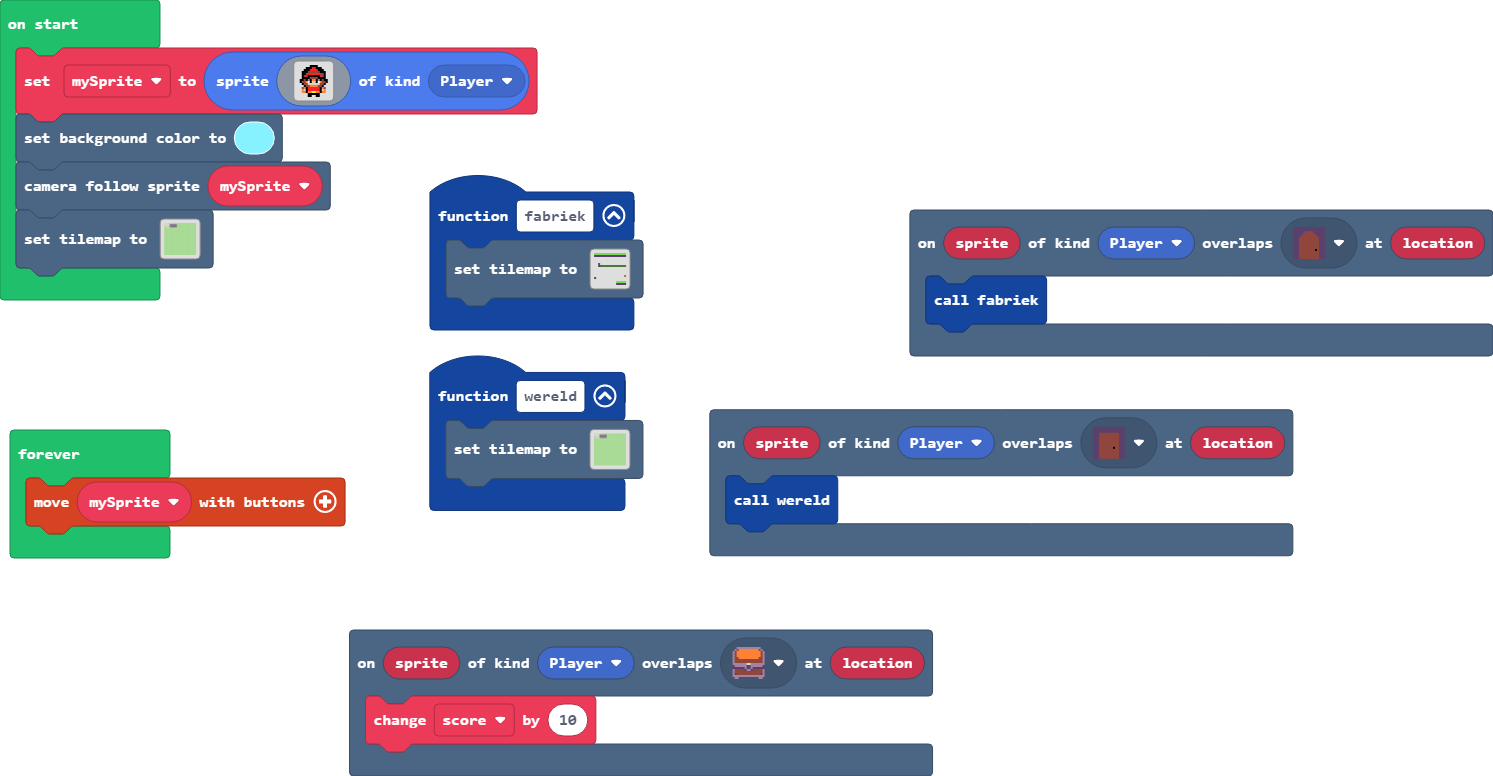
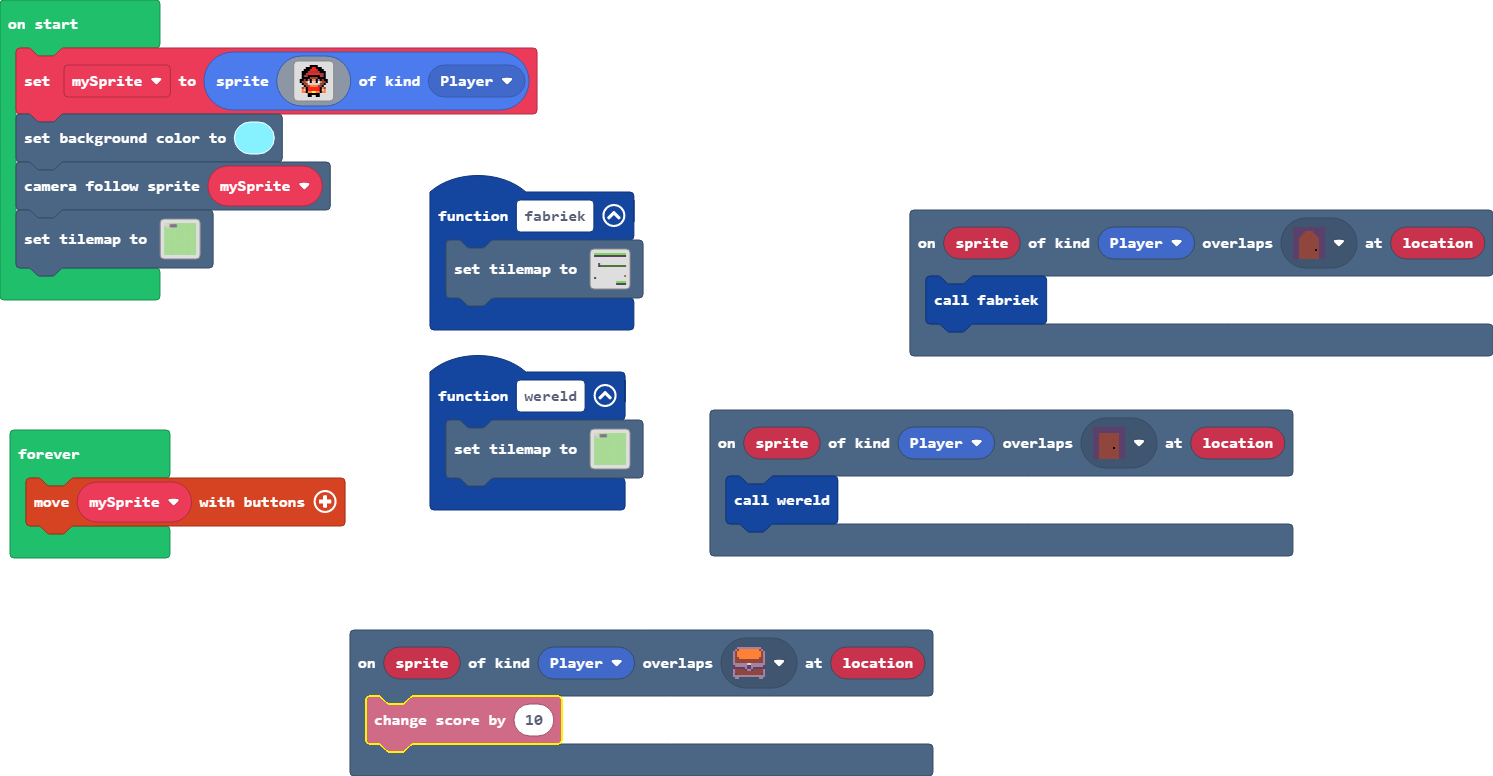
Update main.blocks, main.ts

diff --git a/main.ts b/main.ts
@@ -8,12 +8,11 @@ function fabriek () {
     tiles.setTilemap(tilemap`level4`)
 }
 scene.onOverlapTile(SpriteKind.Player, assets.tile`tile43`, function (sprite, location) {
-    score += 10
+    info.changeScoreBy(10)
 })
 scene.onOverlapTile(SpriteKind.Player, assets.tile`tile41`, function (sprite, location) {
     wereld()
 })
-let score = 0
 let mySprite = sprites.create(img`
     . . . . . . f f f f . . . . . . 
     . . . . f f f 2 2 f f f . . . . 
